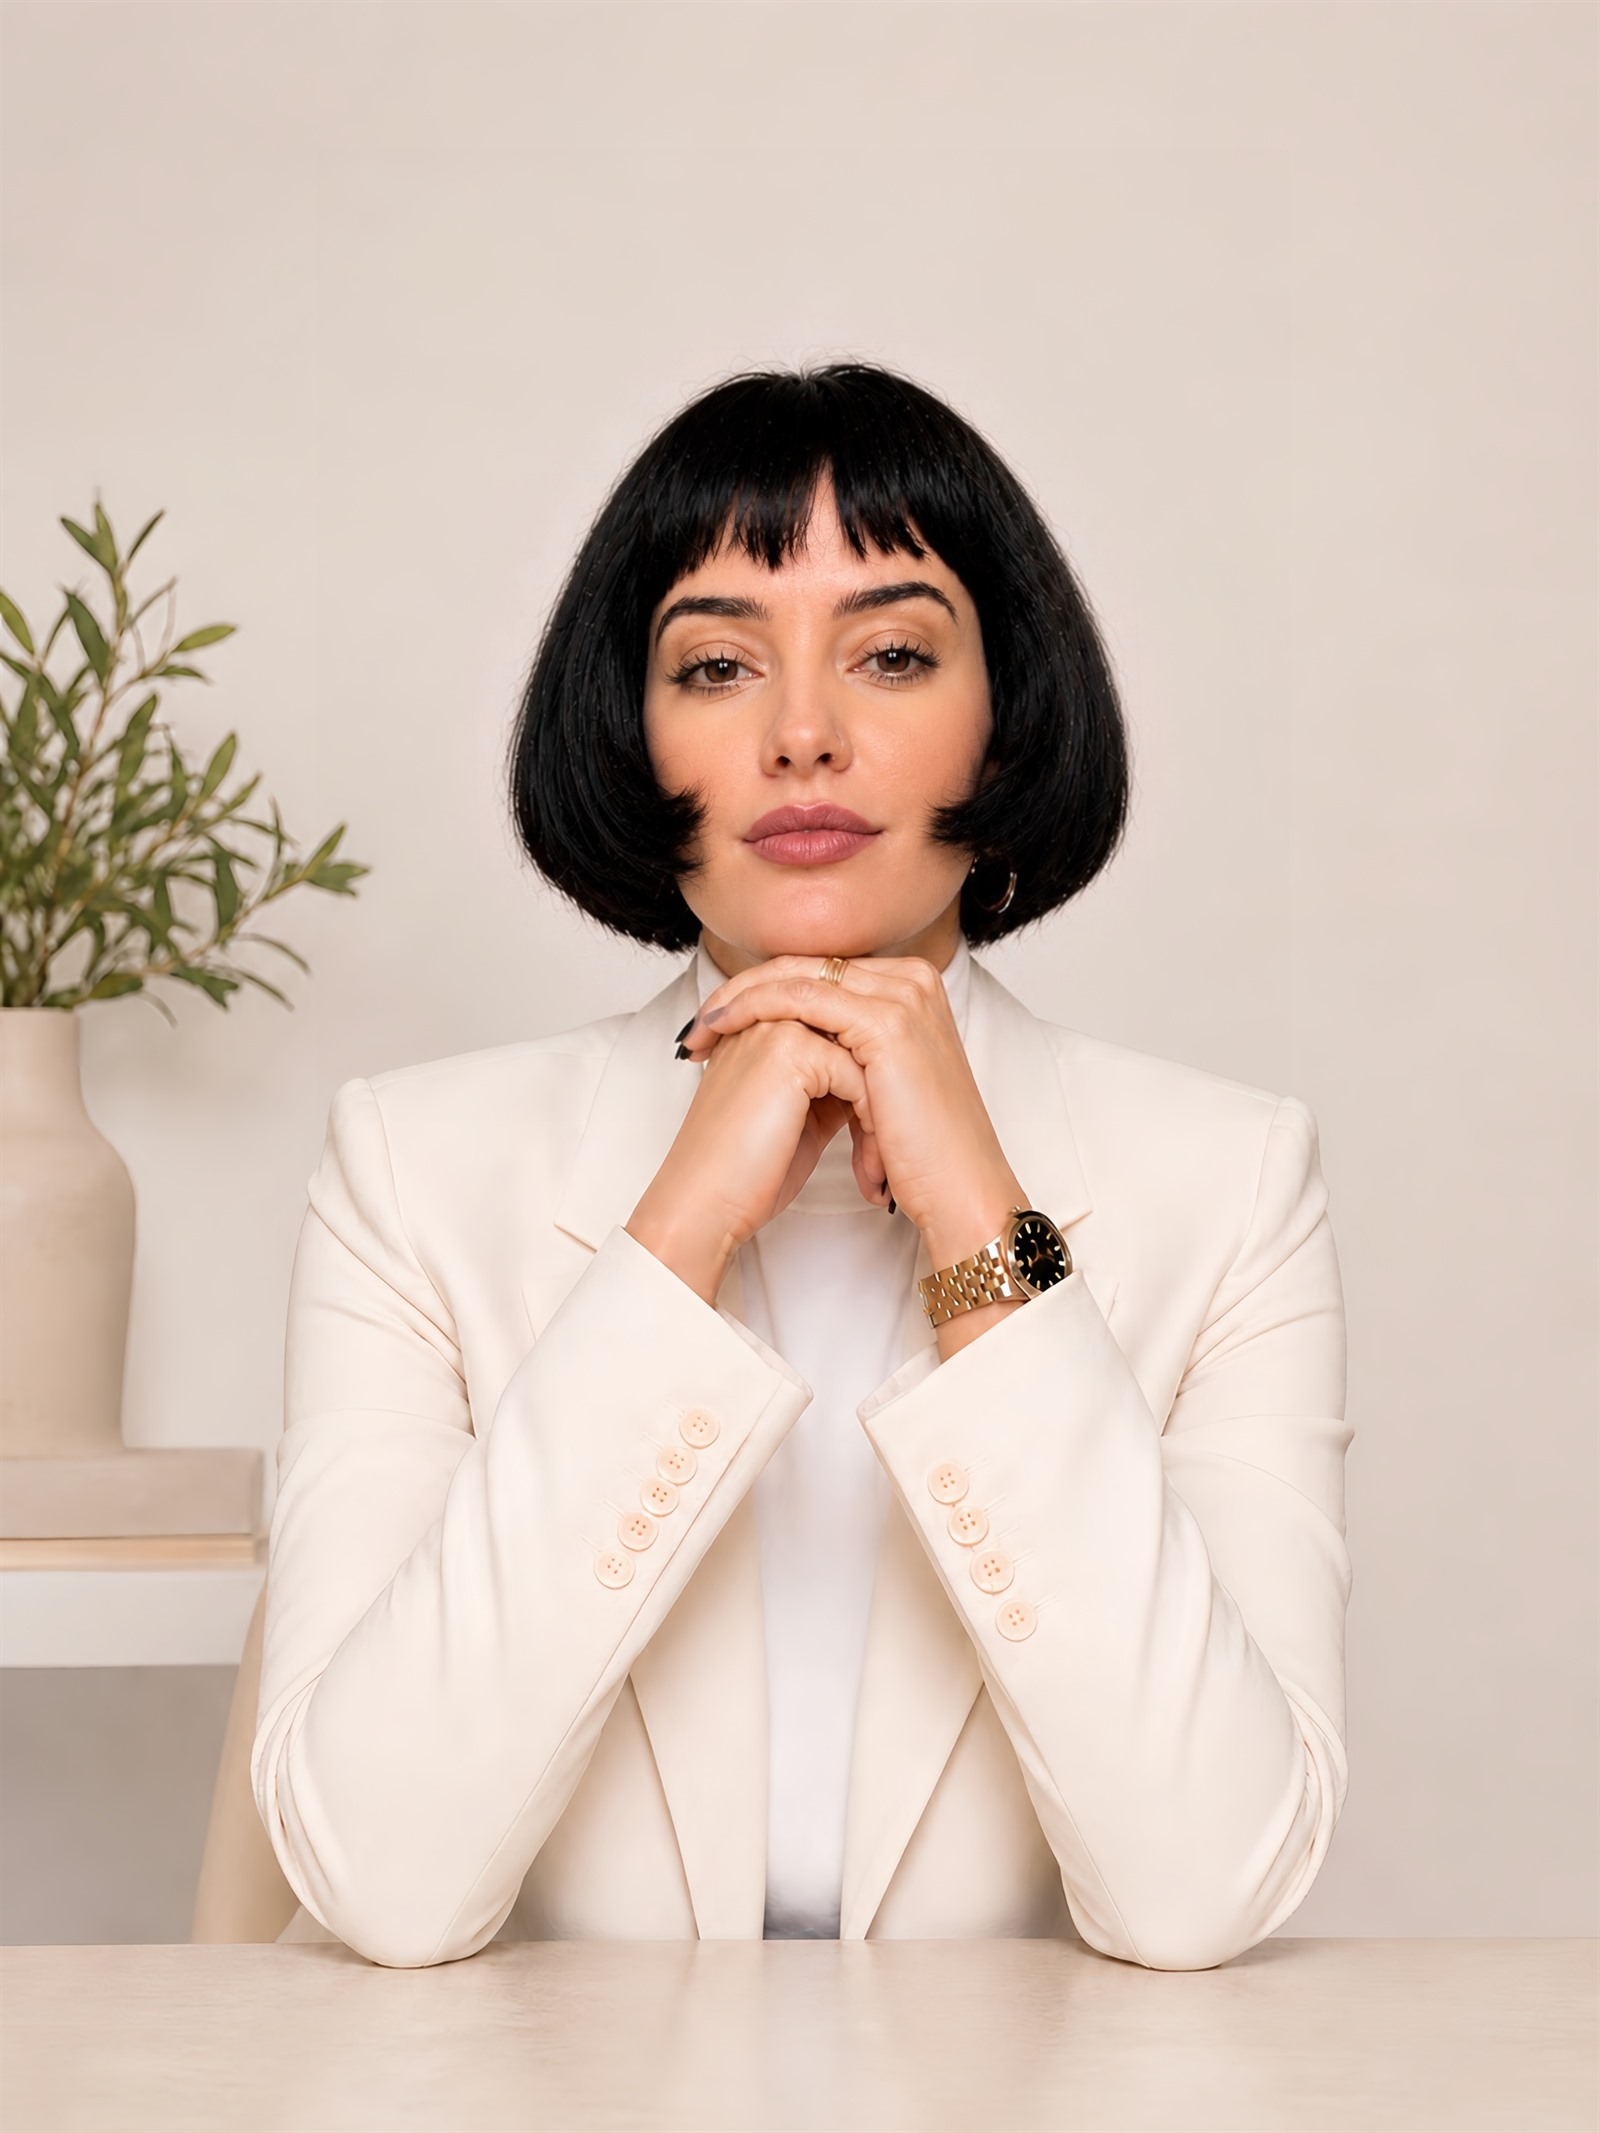
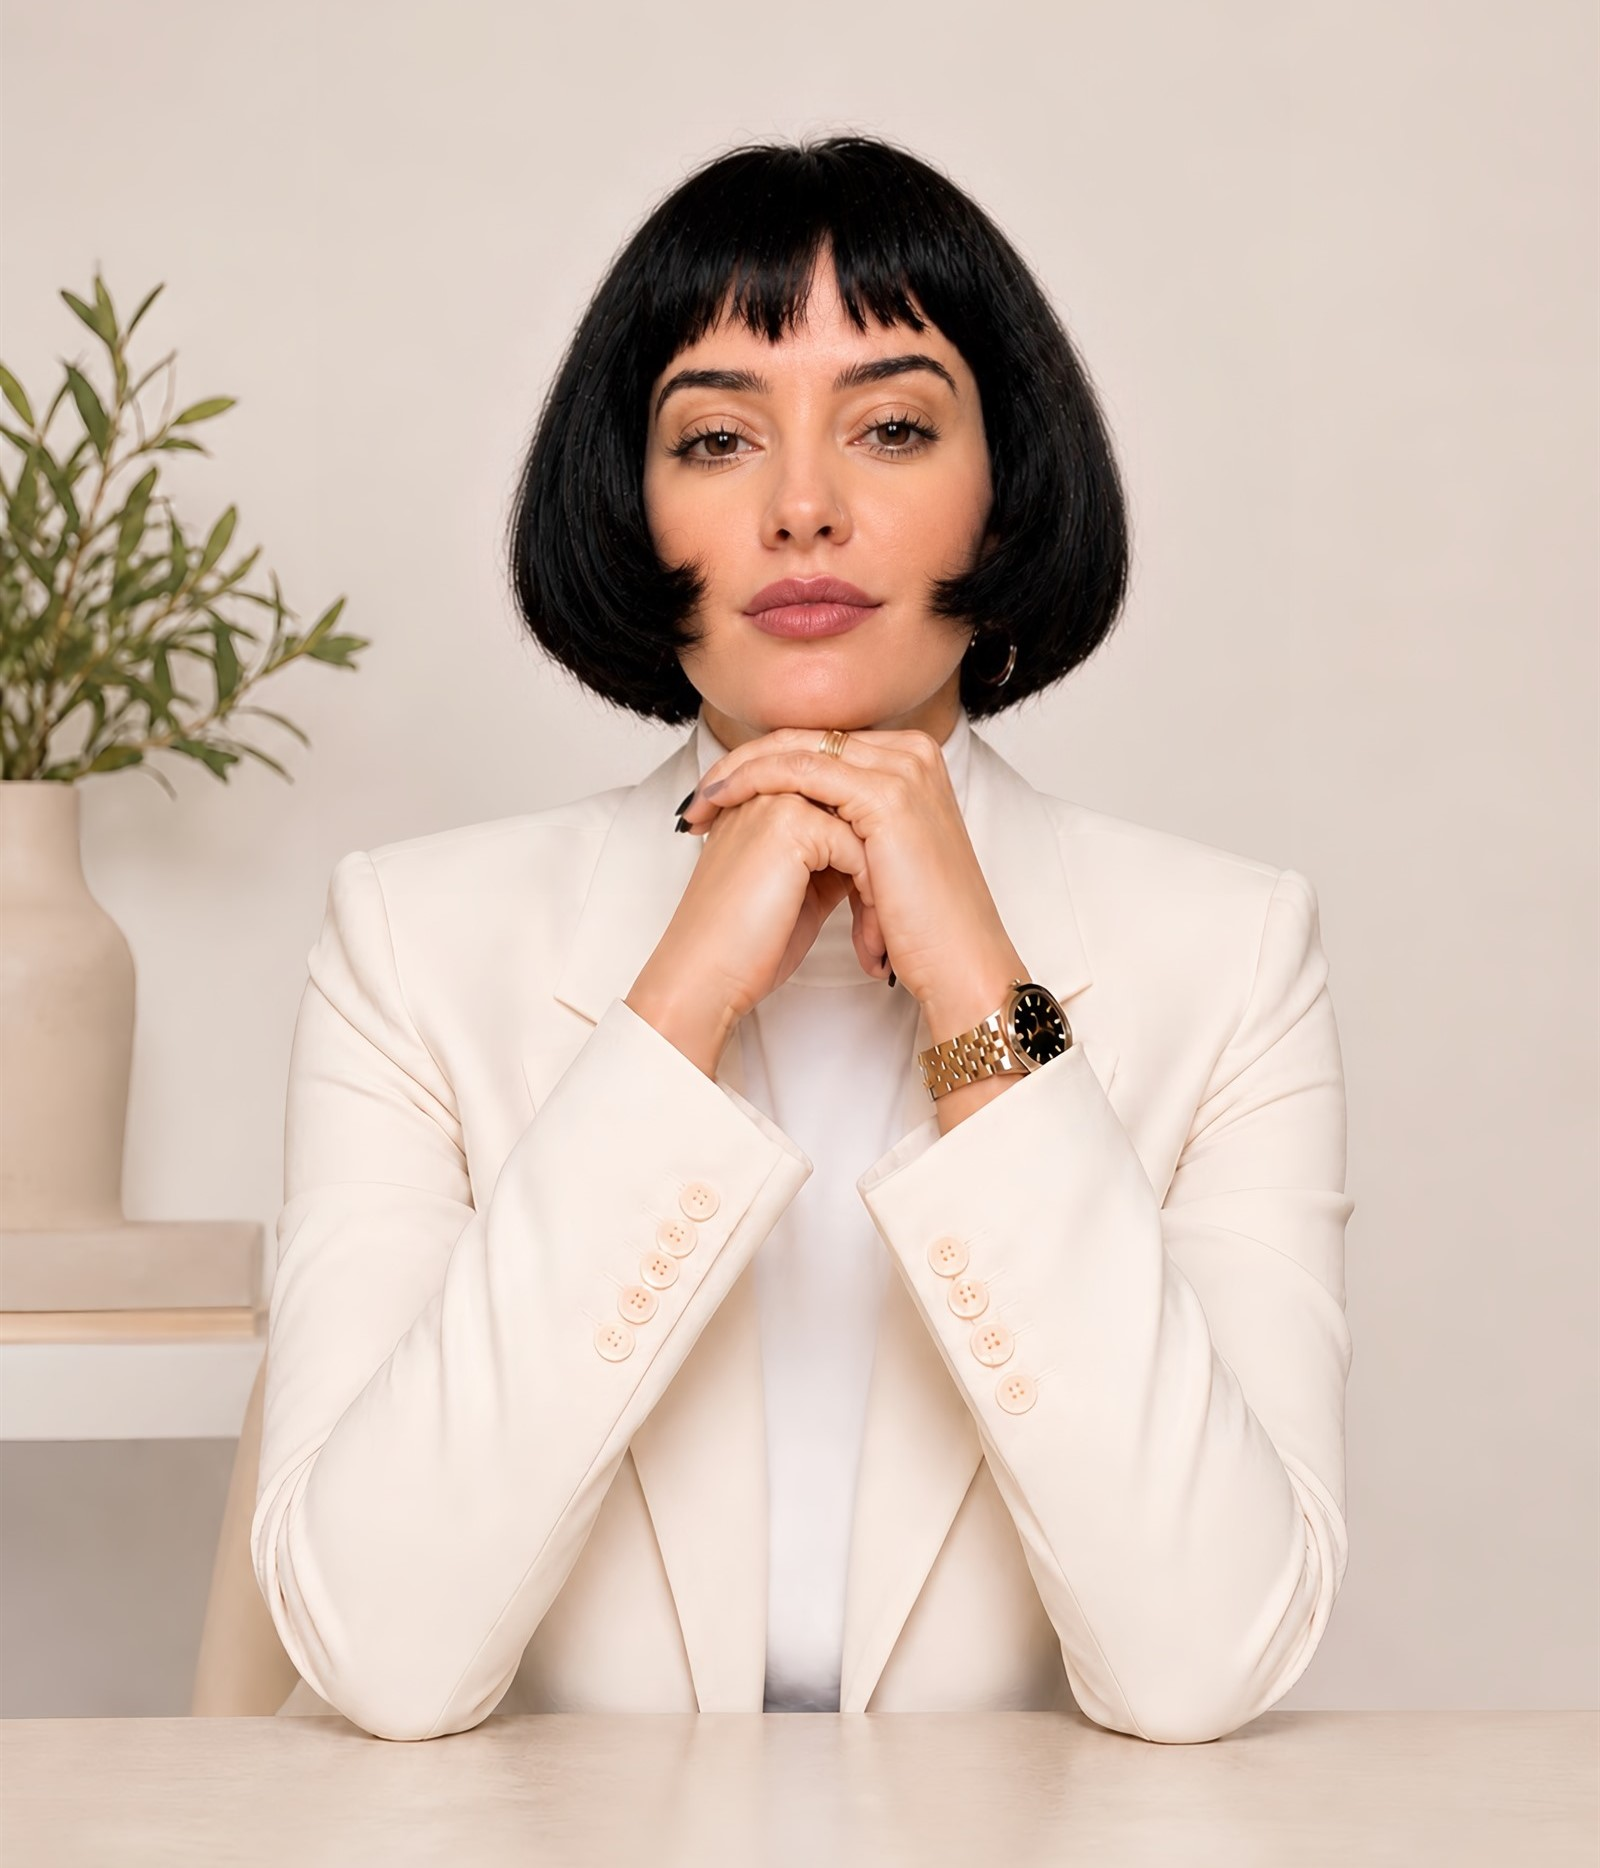
auditing-performance

diff --git a/styles.css b/styles.css
@@ -547,7 +547,7 @@ body.is-page-loading {
   background: var(--section-alt);
 }
 
-@media (min-width: 901px) {
+@media (min-width: 768px) {
   .hero-right {
     width: min(100%, 560px);
     margin-left: auto;
@@ -1731,7 +1731,7 @@ body.is-page-loading {
 }
 
 /* ─── RESPONSIVE ─── */
-@media (max-width: 900px) {
+@media (max-width: 767px) {
   .site-nav {
     padding: 16px 24px;
     justify-content: space-between;
@@ -1789,6 +1789,11 @@ body.is-page-loading {
   .nav-menu__inner a {
     font-size: 13px;
     letter-spacing: 0.18em;
+    min-height: var(--touch-min);
+    display: inline-flex;
+    align-items: center;
+    justify-content: center;
+    padding: 8px 12px;
   }
 
   .nav-menu__cta {
@@ -1826,9 +1831,30 @@ body.is-page-loading {
     padding: 28px 24px;
   }
 
+  .hero-cta-block {
+    max-width: 100%;
+    width: 100%;
+  }
+
+  .hero-cta-actions {
+    width: 100%;
+  }
+
+  .gcal-schedule-host--primary.gcal-schedule-host--hero {
+    width: 100%;
+    max-width: 100%;
+    align-self: stretch;
+  }
+
+  .gcal-schedule-host--primary.gcal-schedule-host--hero .qxCTlb {
+    width: 100% !important;
+    box-sizing: border-box;
+  }
+
   .hero-cta-actions .btn-outline.hero-whatsapp-btn {
     width: 100%;
     text-align: center;
+    justify-content: center;
   }
 
   .hero {
@@ -1926,10 +1952,10 @@ body.is-page-loading {
   #metodo .philosophy-imgs {
     position: relative;
     order: -1;
-    width: 100vw;
-    max-width: 100vw;
-    margin-left: calc(50% - 50vw);
-    margin-right: calc(50% - 50vw);
+    width: 100%;
+    max-width: 100%;
+    margin-left: 0;
+    margin-right: 0;
     height: min(52vw, 320px);
     margin-bottom: 0;
   }
@@ -1988,6 +2014,32 @@ body.is-page-loading {
   .faq-answer {
     padding: 12px 20px 24px;
   }
+
+  .footer-info-line {
+    align-items: flex-start;
+    max-width: 100%;
+  }
+
+  .footer-info-line a {
+    line-height: 1.5;
+    text-align: left;
+  }
+
+  .seo-cta-actions {
+    flex-direction: column;
+    width: 100%;
+  }
+
+  .seo-cta-actions .gcal-schedule-host,
+  .seo-cta-actions .btn-outline {
+    width: 100%;
+    max-width: 100%;
+  }
+
+  .seo-cta-actions .gcal-schedule-host .qxCTlb {
+    width: 100% !important;
+    box-sizing: border-box;
+  }
 }
 
 /* SEO & links pages */
@@ -1998,7 +2050,7 @@ body.is-page-loading {
   gap: 30px;
 }
 
-@media (max-width: 900px) {
+@media (max-width: 767px) {
   .seo-page .site-nav,
   .links-page .site-nav {
     padding: 16px 24px;

diff --git a/site-shared.js b/site-shared.js
@@ -57,7 +57,7 @@
     const menu = document.getElementById('nav-menu');
     if (!toggle || !menu) return;
 
-    const mq = window.matchMedia('(min-width: 901px)');
+    const mq = window.matchMedia('(min-width: 768px)');
 
     function closeMenu() {
       menu.classList.remove('is-open');
@@ -98,9 +98,42 @@
 
   const GCAL_SCHEDULE_URL =
     'https://calendar.google.com/calendar/appointments/AcZssZ0dGAXsBGvjWRiKiPCUCTKC4DncZaVeOFMWxT0=?gv=true';
+  const GCAL_SCRIPT_URL = 'https://calendar.google.com/calendar/scheduling-button-script.js';
+  const GCAL_STYLE_URL = 'https://calendar.google.com/calendar/scheduling-button-script.css';
+
+  function loadGoogleCalendarScheduling() {
+    if (!document.querySelector('.gcal-schedule-host')) {
+      return Promise.resolve();
+    }
+    if (window.__gcalLoadPromise) return window.__gcalLoadPromise;
+
+    window.__gcalLoadPromise = new Promise((resolve, reject) => {
+      if (!document.querySelector('link[data-gcal-css]')) {
+        const link = document.createElement('link');
+        link.rel = 'stylesheet';
+        link.href = GCAL_STYLE_URL;
+        link.setAttribute('data-gcal-css', '1');
+        document.head.appendChild(link);
+      }
+
+      if (window.calendar && window.calendar.schedulingButton) {
+        resolve();
+        return;
+      }
+
+      const script = document.createElement('script');
+      script.src = GCAL_SCRIPT_URL;
+      script.async = true;
+      script.onload = () => resolve();
+      script.onerror = () => reject(new Error('Google Calendar script failed to load'));
+      document.head.appendChild(script);
+    });
+
+    return window.__gcalLoadPromise;
+  }
 
   function initGoogleSchedulingButtons() {
-    if (!window.calendar || !calendar.schedulingButton) return false;
+    if (!window.calendar || !window.calendar.schedulingButton) return false;
     document.querySelectorAll('.gcal-schedule-host').forEach((host) => {
       if (host.dataset.gcalInitialized) return;
       host.dataset.gcalInitialized = '1';
@@ -119,11 +152,17 @@
   }
 
   function ensureGoogleSchedulingButtons() {
-    if (initGoogleSchedulingButtons()) return;
-    let n = 0;
-    const id = setInterval(() => {
-      if (initGoogleSchedulingButtons() || ++n > 100) clearInterval(id);
-    }, 50);
+    if (!document.querySelector('.gcal-schedule-host')) return;
+
+    loadGoogleCalendarScheduling()
+      .then(() => {
+        if (initGoogleSchedulingButtons()) return;
+        let n = 0;
+        const id = setInterval(() => {
+          if (initGoogleSchedulingButtons() || ++n > 100) clearInterval(id);
+        }, 50);
+      })
+      .catch(() => {});
   }
 
   function onPageReady() {

diff --git a/index.html b/index.html
@@ -34,9 +34,6 @@
   <link rel="preconnect" href="https://fonts.gstatic.com" crossorigin />
   <link href="https://fonts.googleapis.com/css2?family=Cormorant+Garamond:ital,wght@0,300;0,400;0,500;0,600;1,300;1,400&family=Jost:wght@300;400;500;600&display=swap" rel="stylesheet" />
   <link rel="stylesheet" href="styles.css" />
-  <!-- Google Calendar Appointment Scheduling -->
-  <link href="https://calendar.google.com/calendar/scheduling-button-script.css" rel="stylesheet" />
-  <script src="https://calendar.google.com/calendar/scheduling-button-script.js" async></script>
   <style>
     /* Modal do agendamento — telas pequenas: iframe em tela cheia; só faixa superior para o Fechar. */
     @media (max-width: 1023px) {
@@ -597,7 +594,7 @@
             <path d="M12 21s-6-5.2-6-10a6 6 0 1 1 12 0c0 4.8-6 10-6 10z"></path>
             <circle cx="12" cy="11" r="2.2"></circle>
           </svg>
-          <a href="https://www.google.com/maps/search/?api=1&amp;query=R.+Dr.+Lir%C3%A1ucio+Gomes%2C+174+-+Cambu%C3%AD%2C+Campinas+-+SP%2C+13024-490" target="_blank" rel="noopener noreferrer">R. Dr. Liráucio Gomes, 174 — Cambuí, Campinas</a>
+          <span>Campinas – SP</span>
         </span>
         <br>
         <span class="footer-info-line">CRN 91723</span>

diff --git a/bioimpedancia-campinas.html b/bioimpedancia-campinas.html
@@ -27,8 +27,6 @@
   <link rel="preconnect" href="https://fonts.gstatic.com" crossorigin />
   <link href="https://fonts.googleapis.com/css2?family=Cormorant+Garamond:ital,wght@0,300;0,400;0,500;0,600;1,300;1,400&family=Jost:wght@300;400;500;600&display=swap" rel="stylesheet" />
   <link rel="stylesheet" href="styles.css" />
-  <link href="https://calendar.google.com/calendar/scheduling-button-script.css" rel="stylesheet" />
-  <script src="https://calendar.google.com/calendar/scheduling-button-script.js" async></script>
   <style>
     @media (max-width: 1023px) {
       .hur54b { display: flex !important; flex-direction: column !important; align-items: stretch !important; justify-content: flex-start !important; padding: 0 !important; padding-top: calc(env(safe-area-inset-top, 0px) + 52px) !important; padding-bottom: env(safe-area-inset-bottom, 0px) !important; box-sizing: border-box !important; height: 100vh !important; height: 100dvh !important; min-height: 100vh !important; min-height: 100dvh !important; }

diff --git a/consulta-online.html b/consulta-online.html
@@ -27,8 +27,6 @@
   <link rel="preconnect" href="https://fonts.gstatic.com" crossorigin />
   <link href="https://fonts.googleapis.com/css2?family=Cormorant+Garamond:ital,wght@0,300;0,400;0,500;0,600;1,300;1,400&family=Jost:wght@300;400;500;600&display=swap" rel="stylesheet" />
   <link rel="stylesheet" href="styles.css" />
-  <link href="https://calendar.google.com/calendar/scheduling-button-script.css" rel="stylesheet" />
-  <script src="https://calendar.google.com/calendar/scheduling-button-script.js" async></script>
   <style>
     @media (max-width: 1023px) {
       .hur54b {

diff --git a/emagrecimento-feminino.html b/emagrecimento-feminino.html
@@ -27,8 +27,6 @@
   <link rel="preconnect" href="https://fonts.gstatic.com" crossorigin />
   <link href="https://fonts.googleapis.com/css2?family=Cormorant+Garamond:ital,wght@0,300;0,400;0,500;0,600;1,300;1,400&family=Jost:wght@300;400;500;600&display=swap" rel="stylesheet" />
   <link rel="stylesheet" href="styles.css" />
-  <link href="https://calendar.google.com/calendar/scheduling-button-script.css" rel="stylesheet" />
-  <script src="https://calendar.google.com/calendar/scheduling-button-script.js" async></script>
   <style>
     @media (max-width: 1023px) {
       .hur54b {

diff --git a/links.html b/links.html
@@ -27,8 +27,6 @@
   <link rel="preconnect" href="https://fonts.gstatic.com" crossorigin />
   <link href="https://fonts.googleapis.com/css2?family=Cormorant+Garamond:ital,wght@0,300;0,400;0,500;0,600;1,300;1,400&family=Jost:wght@300;400;500;600&display=swap" rel="stylesheet" />
   <link rel="stylesheet" href="styles.css" />
-  <link href="https://calendar.google.com/calendar/scheduling-button-script.css" rel="stylesheet" />
-  <script src="https://calendar.google.com/calendar/scheduling-button-script.js" async></script>
   <style>
     @media (max-width: 1023px) {
       .hur54b {

diff --git a/nutricionista-em-campinas.html b/nutricionista-em-campinas.html
@@ -27,8 +27,6 @@
   <link rel="preconnect" href="https://fonts.gstatic.com" crossorigin />
   <link href="https://fonts.googleapis.com/css2?family=Cormorant+Garamond:ital,wght@0,300;0,400;0,500;0,600;1,300;1,400&family=Jost:wght@300;400;500;600&display=swap" rel="stylesheet" />
   <link rel="stylesheet" href="styles.css" />
-  <link href="https://calendar.google.com/calendar/scheduling-button-script.css" rel="stylesheet" />
-  <script src="https://calendar.google.com/calendar/scheduling-button-script.js" async></script>
   <style>
     @media (max-width: 1023px) {
       .hur54b {

diff --git a/reeducacao-alimentar.html b/reeducacao-alimentar.html
@@ -27,8 +27,6 @@
   <link rel="preconnect" href="https://fonts.gstatic.com" crossorigin />
   <link href="https://fonts.googleapis.com/css2?family=Cormorant+Garamond:ital,wght@0,300;0,400;0,500;0,600;1,300;1,400&family=Jost:wght@300;400;500;600&display=swap" rel="stylesheet" />
   <link rel="stylesheet" href="styles.css" />
-  <link href="https://calendar.google.com/calendar/scheduling-button-script.css" rel="stylesheet" />
-  <script src="https://calendar.google.com/calendar/scheduling-button-script.js" async></script>
   <style>
     @media (max-width: 1023px) {
       .hur54b { display: flex !important; flex-direction: column !important; align-items: stretch !important; justify-content: flex-start !important; padding: 0 !important; padding-top: calc(env(safe-area-inset-top, 0px) + 52px) !important; padding-bottom: env(safe-area-inset-bottom, 0px) !important; box-sizing: border-box !important; height: 100vh !important; height: 100dvh !important; min-height: 100vh !important; min-height: 100dvh !important; }

diff --git a/saude-hormonal-feminina.html b/saude-hormonal-feminina.html
@@ -27,8 +27,6 @@
   <link rel="preconnect" href="https://fonts.gstatic.com" crossorigin />
   <link href="https://fonts.googleapis.com/css2?family=Cormorant+Garamond:ital,wght@0,300;0,400;0,500;0,600;1,300;1,400&family=Jost:wght@300;400;500;600&display=swap" rel="stylesheet" />
   <link rel="stylesheet" href="styles.css" />
-  <link href="https://calendar.google.com/calendar/scheduling-button-script.css" rel="stylesheet" />
-  <script src="https://calendar.google.com/calendar/scheduling-button-script.js" async></script>
   <style>
     @media (max-width: 1023px) {
       .hur54b { display: flex !important; flex-direction: column !important; align-items: stretch !important; justify-content: flex-start !important; padding: 0 !important; padding-top: calc(env(safe-area-inset-top, 0px) + 52px) !important; padding-bottom: env(safe-area-inset-bottom, 0px) !important; box-sizing: border-box !important; height: 100vh !important; height: 100dvh !important; min-height: 100vh !important; min-height: 100dvh !important; }